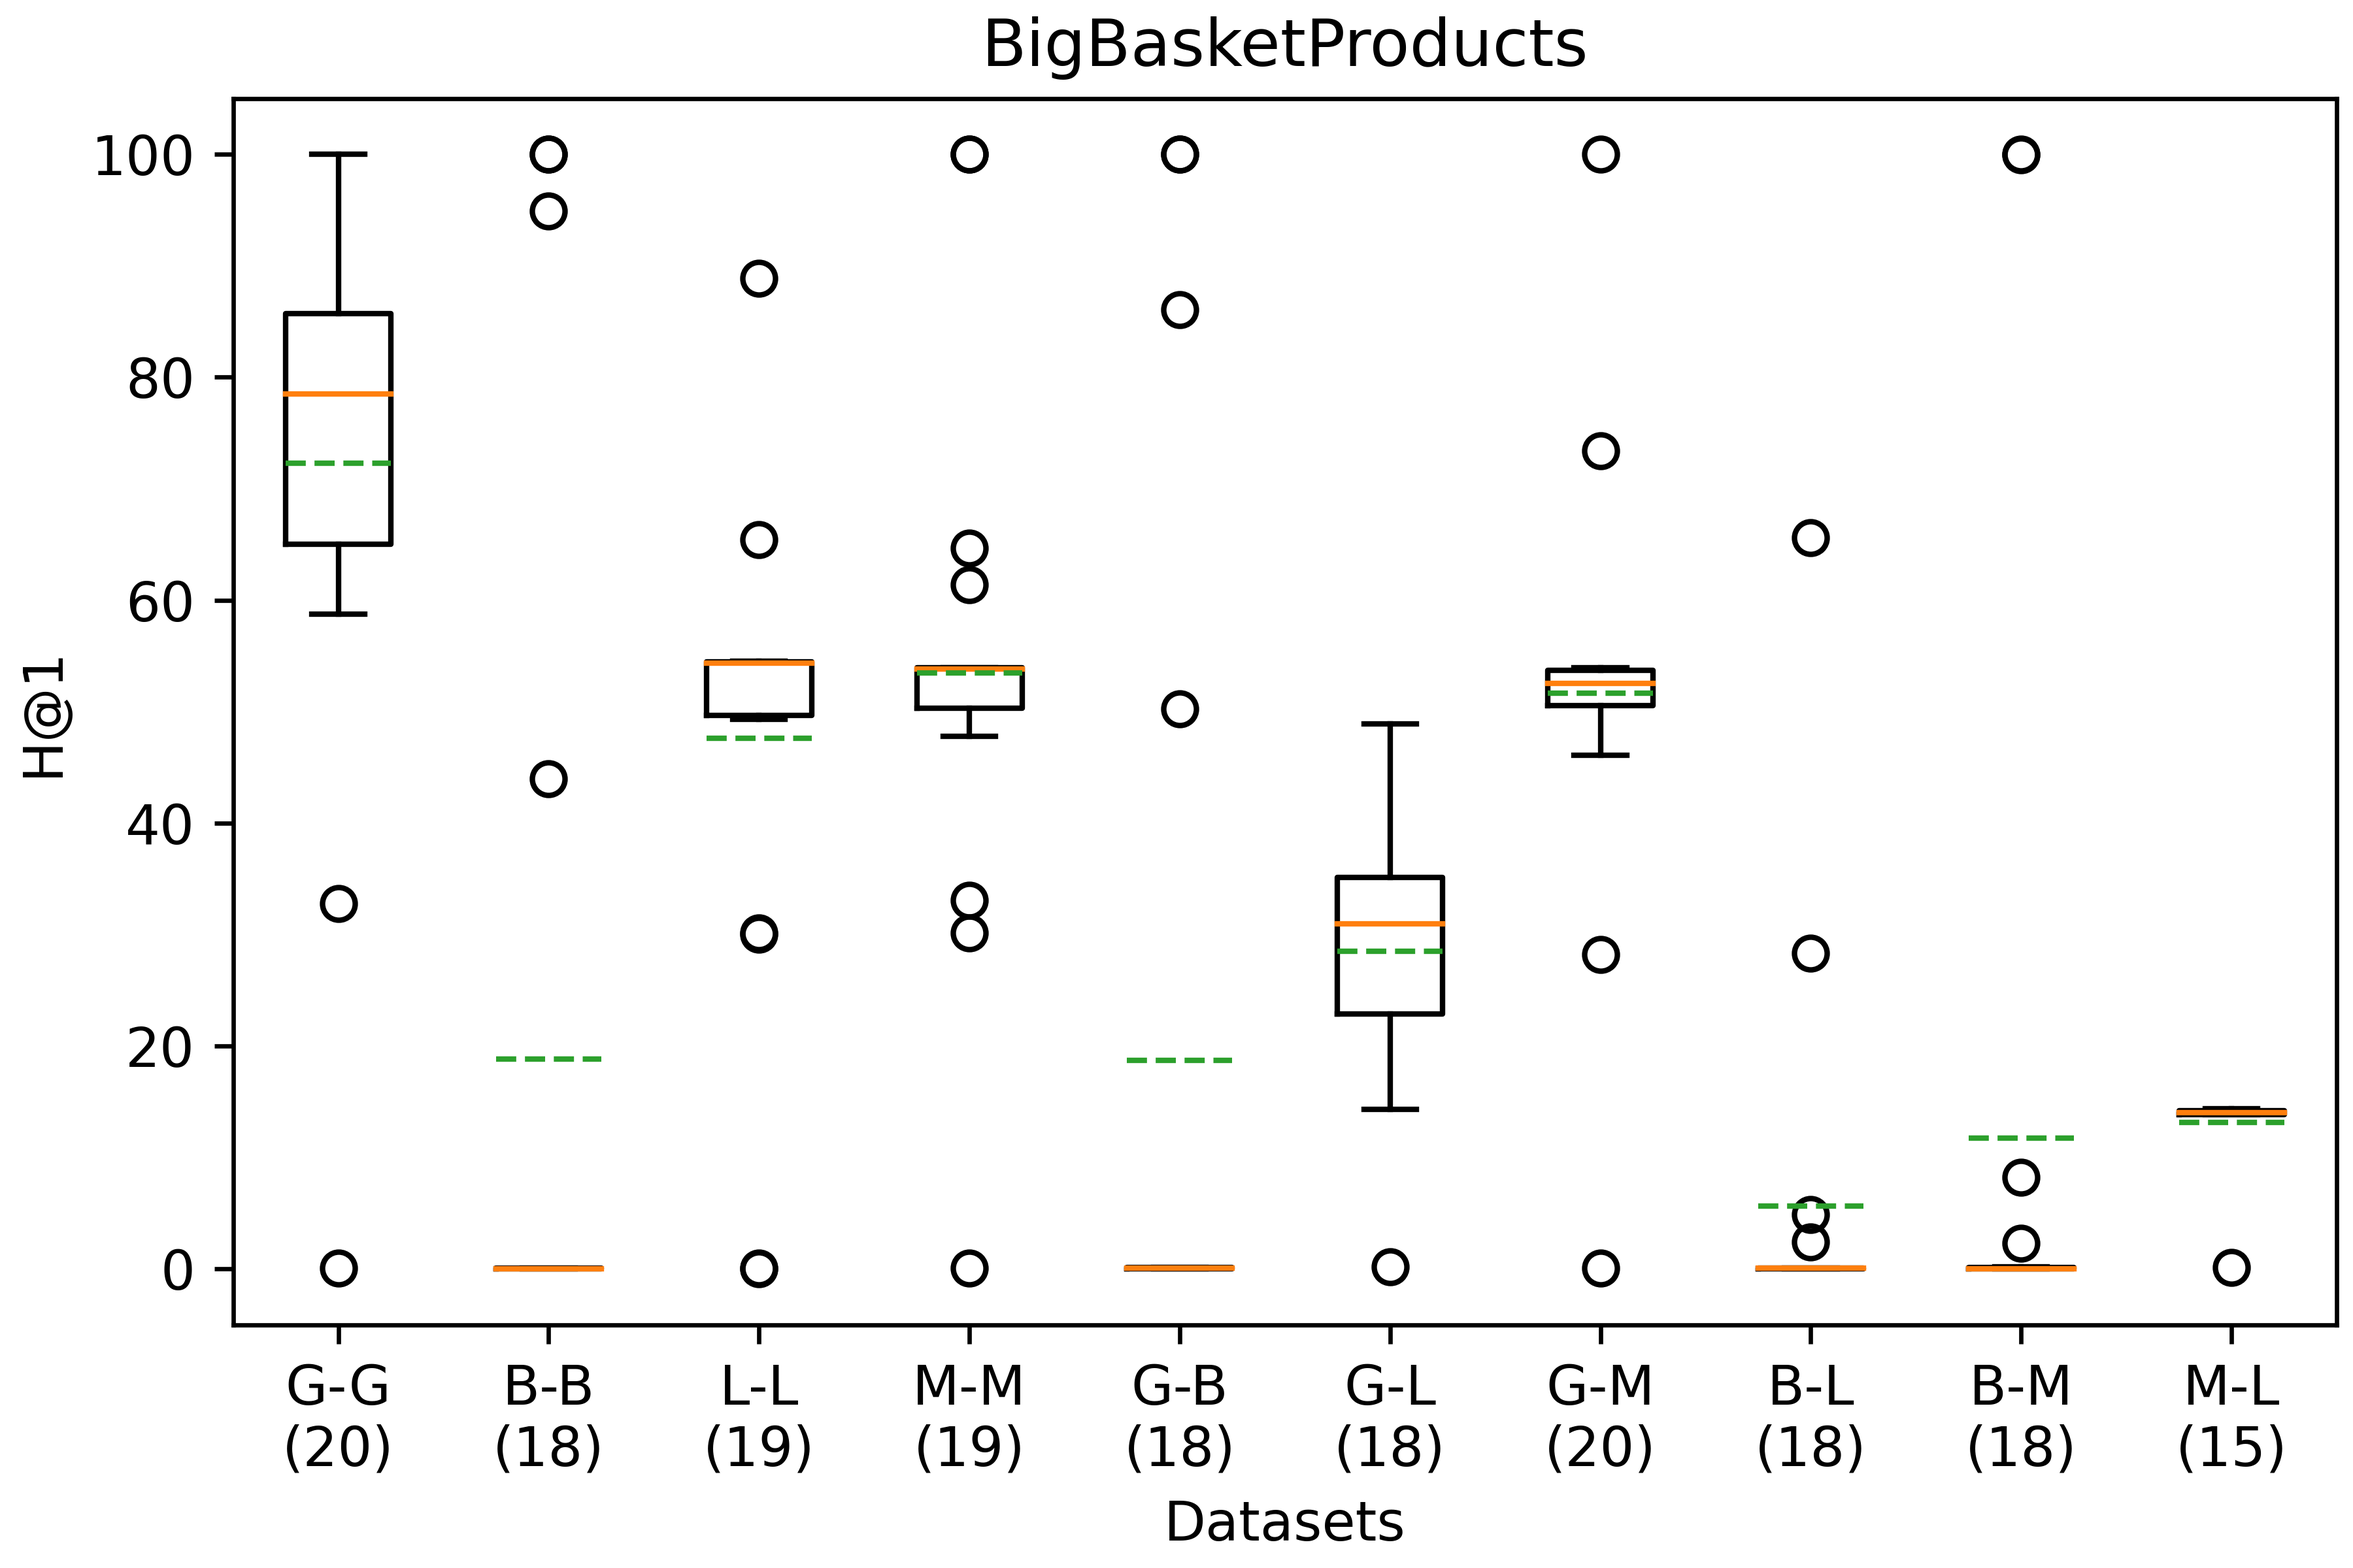
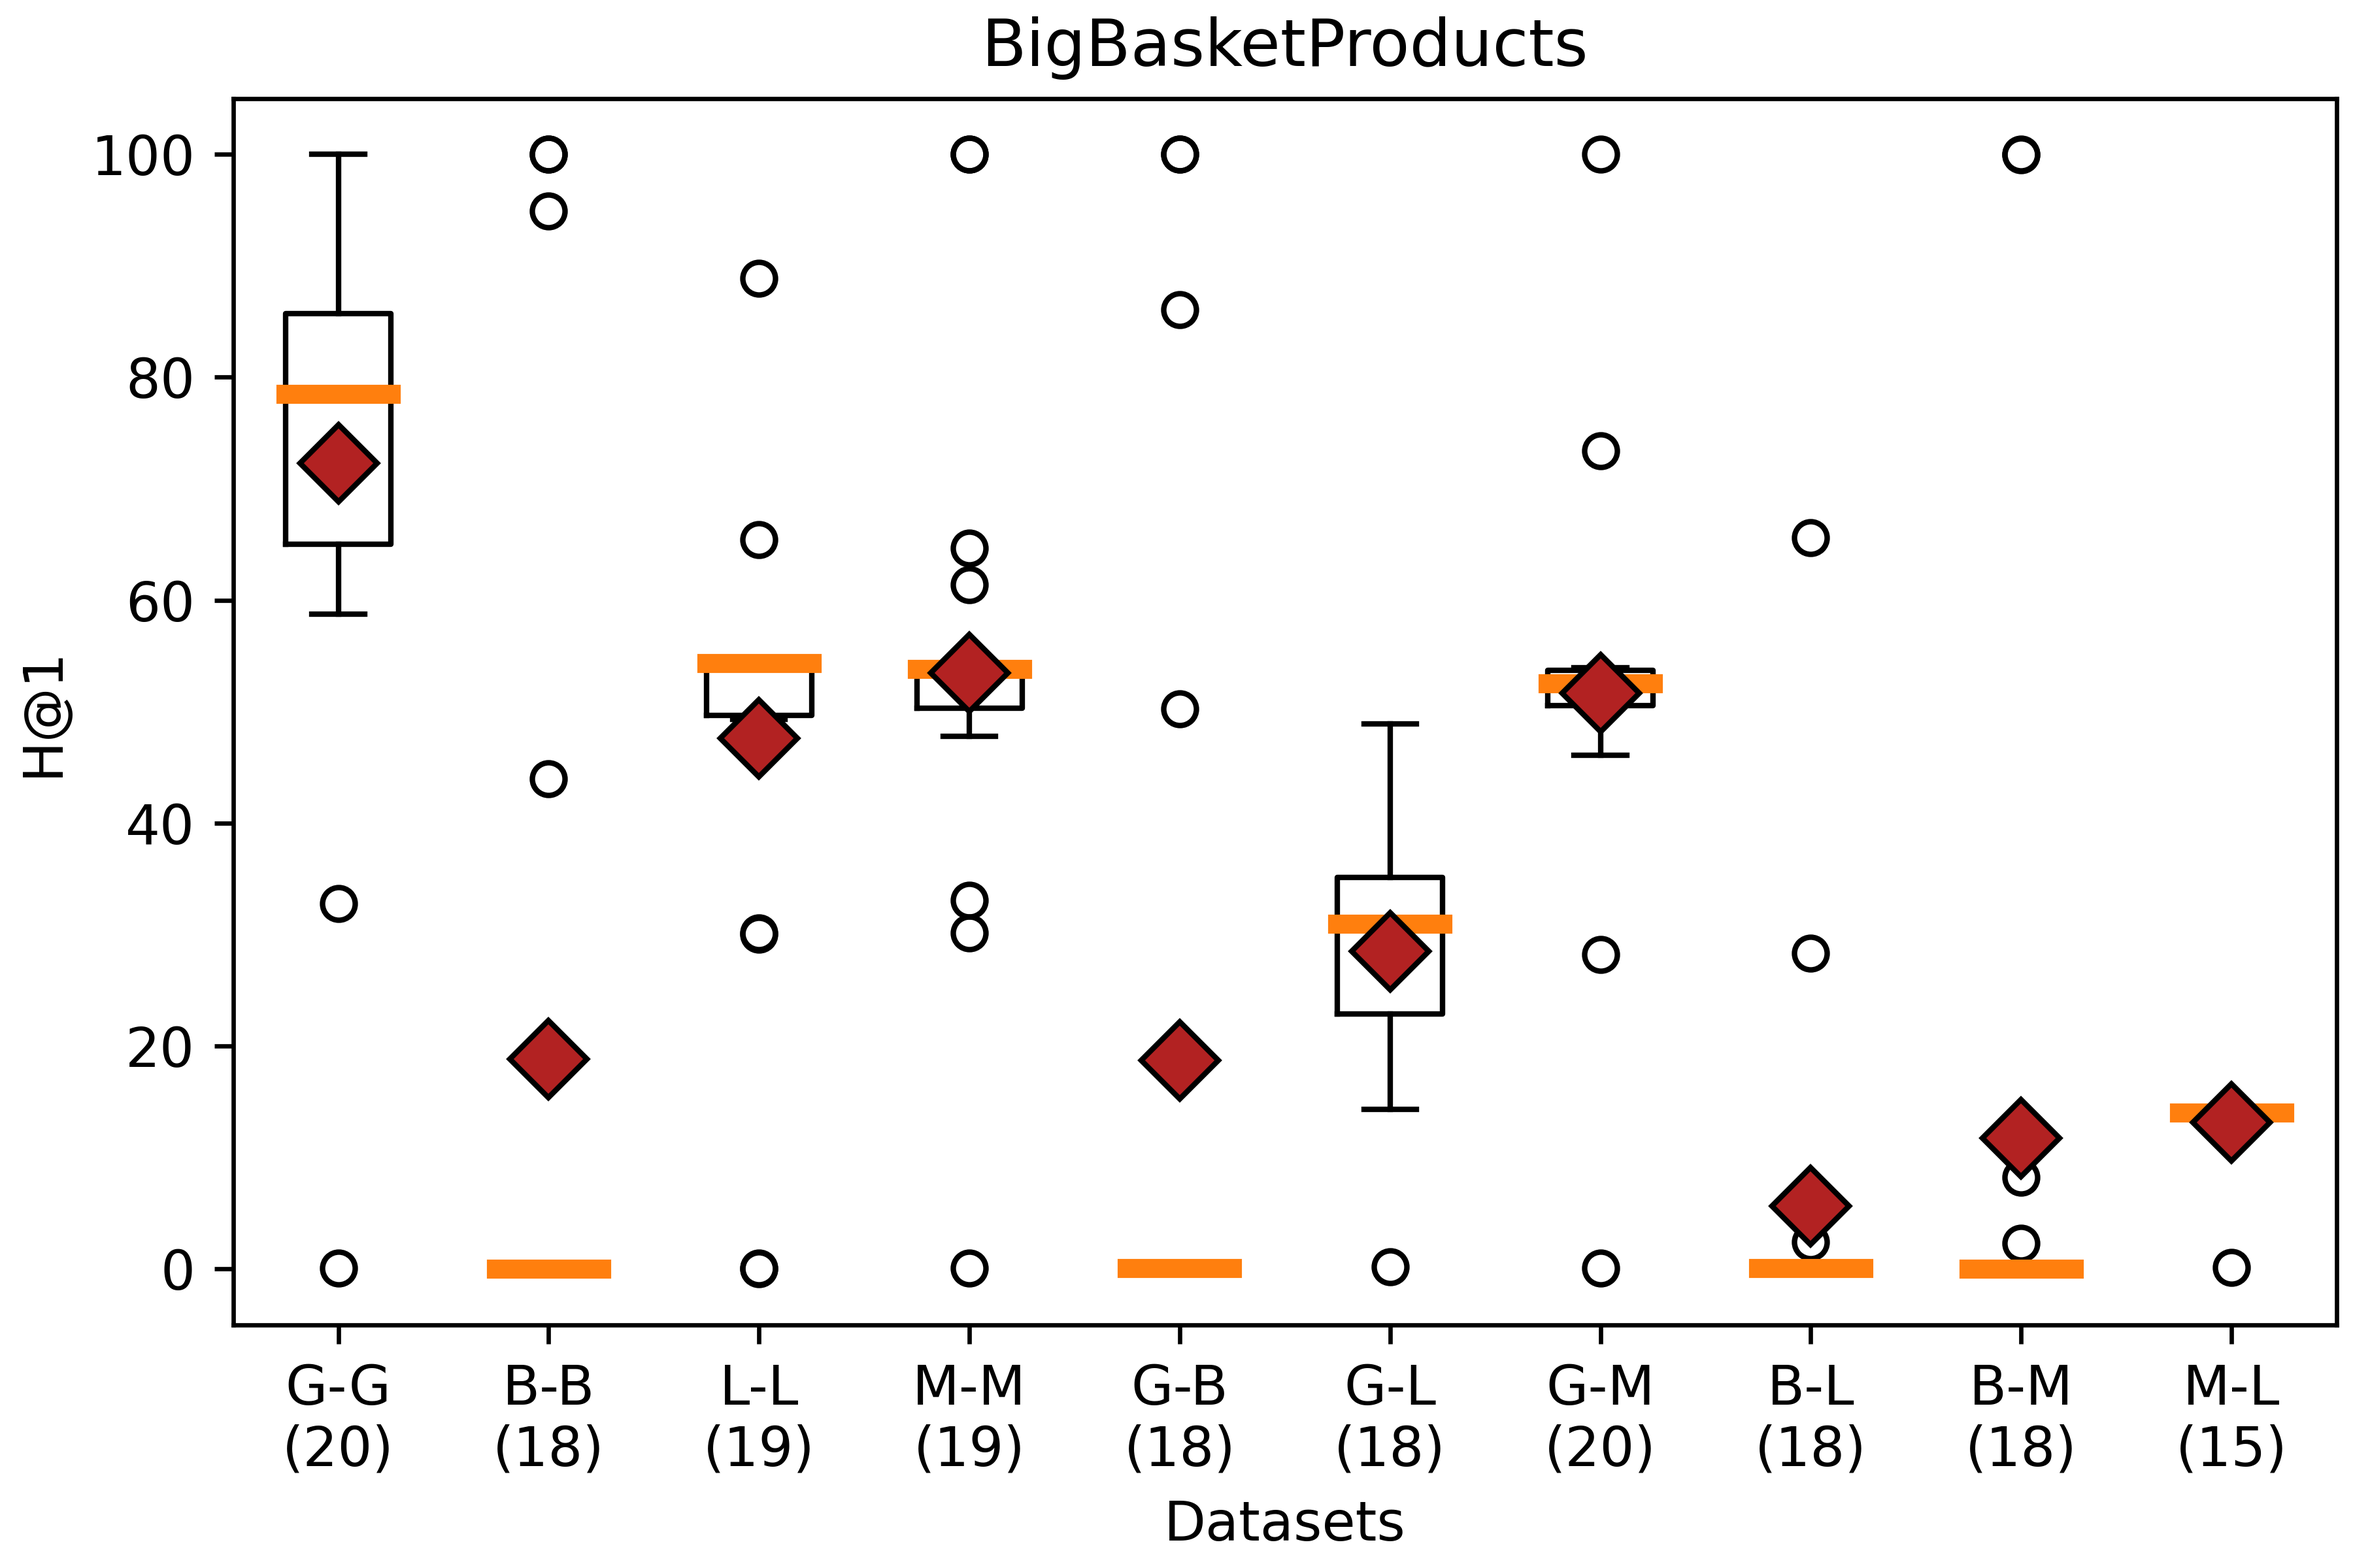
Updaty Figures BigBasketProducts

diff --git a/BigBasketProducts/bigBasketProducts.md b/BigBasketProducts/bigBasketProducts.md
@@ -501,17 +501,23 @@
 
 ## Results
 
+<figcaption><strong>Figure Methods Boxplot.</strong> Boxplot of the OpenEA methods according to the Hits@1 metric of the 10 pairwise comparisons of the KGs generated from the Bigbasket Products dataset. The orange solid line represents the median and the red diamond the mean of the experiments that did not lead to an error. The number of experiments without error is shown in brackets next to the name of the method. BootEA-TransH, ConvE, KDCoE and MultiKE are not shown because their error rate is equal to 1 for all datasets.</figcaption>
+
 ![Modules Boxplot BigBasket Products](./Figures/boxplotApproaches.png "Modules Boxplot BigBasket Products")
+
+<figcaption><strong>Figure Methods Clustering.</strong> Hierarchical clustering (Ward algorithm) of 25 OpenEA methods according to the 5 metrics for the 10 pairwise comparisons of the KGs generated from the Bigbasket Products dataset.</figcaption>
 
 ![Modules Clusters BigBasket Products](./Figures/clusterApproaches.png "Modules Clusters BigBasket Products")
 
+<figcaption><strong>Figure Experiments Boxplot.</strong> Boxplot of the 10 types of pairwise comparison experiments of KGs based on the Hits@1 score obtained by the 25 methods carried out in the Bigbasket Products dataset. The orange solid line represents the median and the red diamond the mean of the experiments that did not lead to an error. The number of modules that did not generate an error is shown in brackets under the name of the experiment represented.</figcaption>
+
 ![Datasets Boxplot BigBasket Products](./Figures/boxplotDatasetsPairs.png "Datasets Boxplot BigBasket Products")
+
+<figcaption><strong>Figure Experiments Clustering.</strong> Hierarchical clustering, with method Ward, of the 10 types of pairwise comparison experiments of KG, according to the 5 metrics, with all the values scaled to the range [0,1], of the 25 (at most) OpenEA modules carried out in the Bigbasket Products dataset.</figcaption>
 
 ![Datasets Clusters BigBasket Products](./Figures/clusterDataset.png "Datasets Clusters BigBasket Products")
 
-![Datasets Cluster AttrE-BootEA BigBasket Products](./Figures/clusterDatasetAttBoot.png "Datasets Cluster AttrE-BootEA BigBasket Products")
 
-![BarChart Comparisons Modules BigBasket Products](./Figures/barComparison.png "BarChart Comparisons Modules BigBasket Products")
 
 ## Merged methods
 
